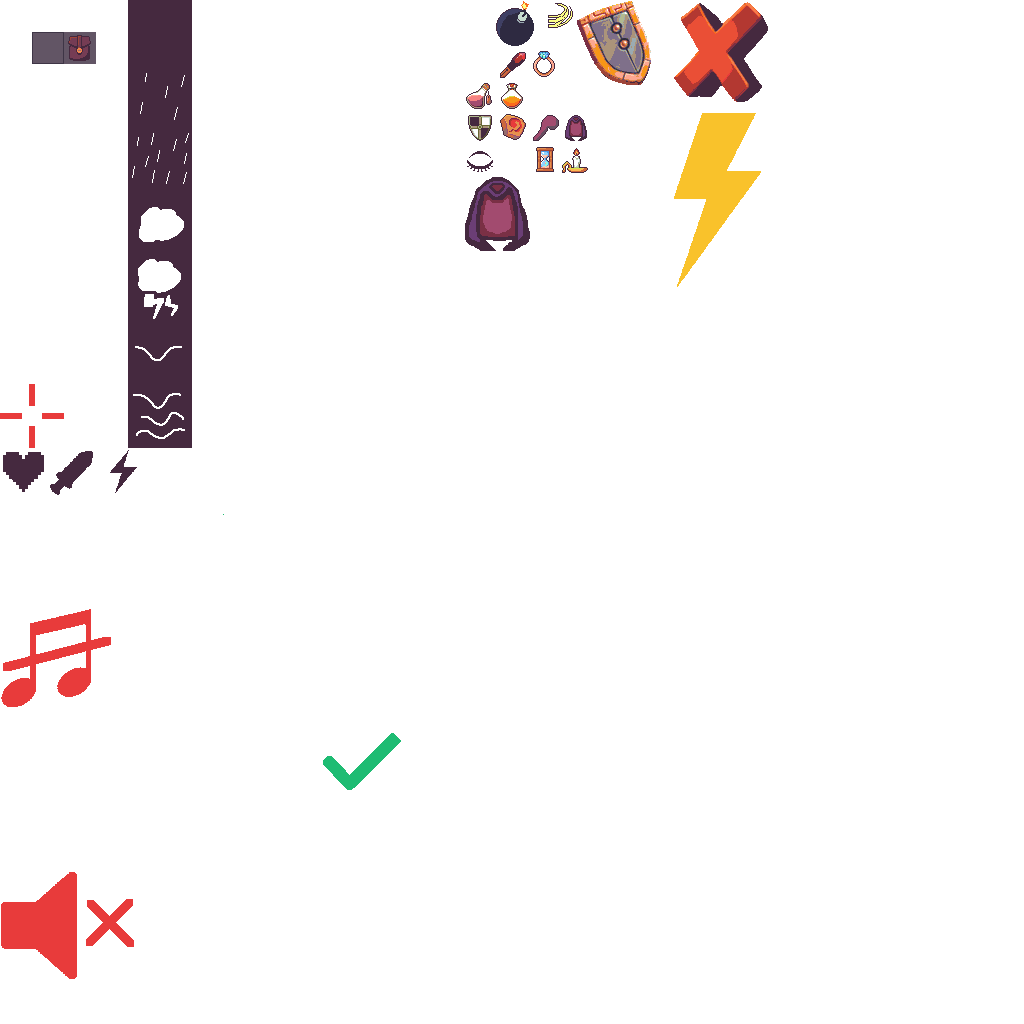
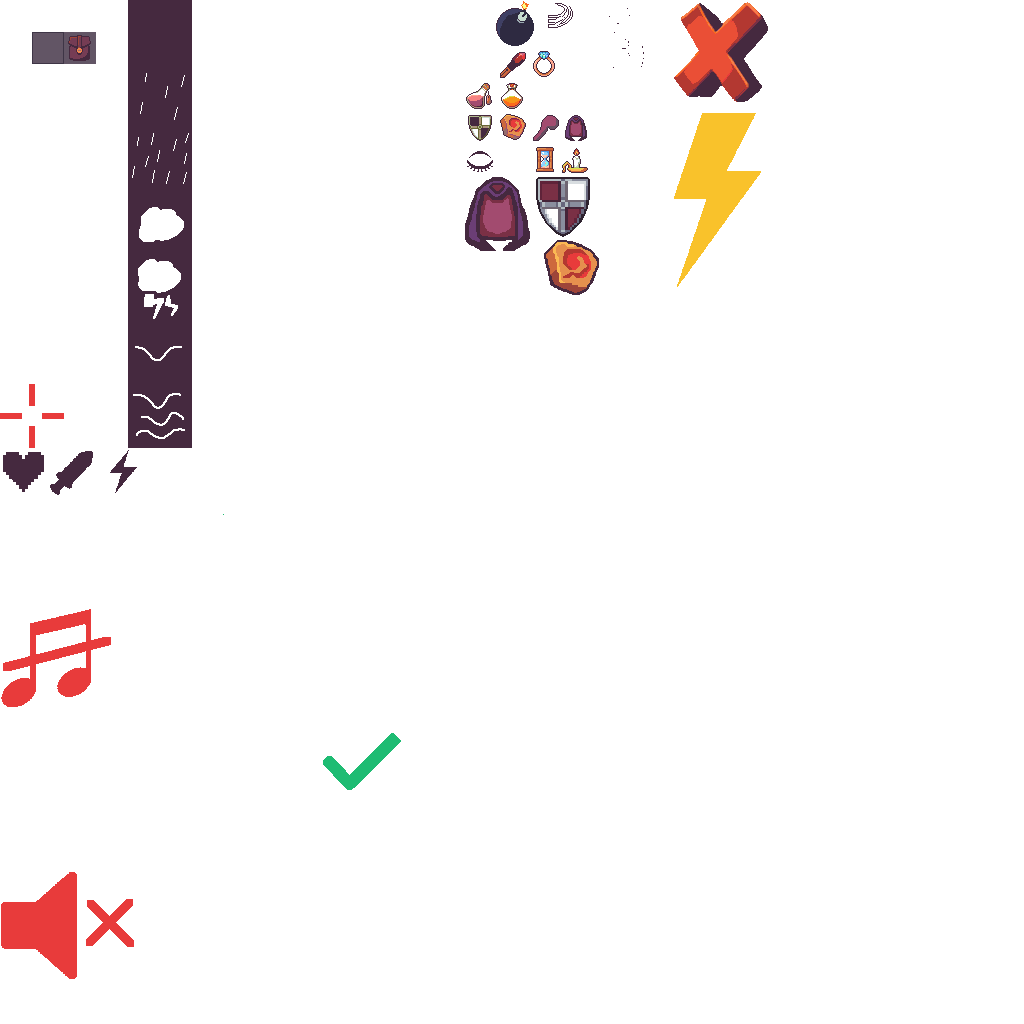
0.8.090

Changed region(s): [[0.5, 0.1562, 0.5938, 0.2812], [0.5312, 0.0, 0.6562, 0.0938]]

diff --git a/gamestream_flutter/lib/atlases/atlas_icons.dart b/gamestream_flutter/lib/atlases/atlas_icons.dart
@@ -39,9 +39,9 @@ class AtlasIcons {
     IconType.Bag_White: 245,
     IconType.Power_None: 0,
     IconType.Power_Bomb: 495,
-    IconType.Power_Shield: 468,
+    IconType.Power_Shield: 536,
     IconType.Power_Invisible: 465,
-    IconType.Power_Teleport: 503,
+    IconType.Power_Teleport: 544,
     IconType.Power_Revive: 466,
     IconType.Power_Stun: 674,
     IconType.Music_Enabled: 1,
@@ -89,9 +89,9 @@ class AtlasIcons {
     IconType.Bag_White: 179,
     IconType.Power_None: 0,
     IconType.Power_Bomb: 1,
-    IconType.Power_Shield: 115,
+    IconType.Power_Shield: 177,
     IconType.Power_Invisible: 177,
-    IconType.Power_Teleport: 115,
+    IconType.Power_Teleport: 240,
     IconType.Power_Revive: 84,
     IconType.Power_Stun: 113,
     IconType.Music_Enabled: 499,
@@ -117,14 +117,15 @@ class AtlasIcons {
     IconType.Energy: 75,
     IconType.Power_None: 0,
     IconType.Power_Bomb: 38,
-    IconType.Power_Shield: 24,
+    IconType.Power_Shield: 54,
     IconType.Power_Invisible: 65,
-    IconType.Power_Teleport: 18,
+    IconType.Power_Teleport: 55,
     IconType.Power_Revive: 26,
     IconType.Power_Stun: 87,
     IconType.Music_Enabled: 90,
     IconType.Music_Disabled: 90,
   }[itemType] ?? getSrcSize(itemType);
+
 
   static double getSrcHeight(int itemType) => const  <int, double> {
     IconType.Checkbox_True: 112,
@@ -145,9 +146,9 @@ class AtlasIcons {
     IconType.Energy: 157,
     IconType.Power_None: 0,
     IconType.Power_Bomb: 45,
-    IconType.Power_Shield: 25,
+    IconType.Power_Shield: 60,
     IconType.Power_Invisible: 74,
-    IconType.Power_Teleport: 25,
+    IconType.Power_Teleport: 55,
     IconType.Power_Revive: 26,
     IconType.Power_Stun: 174,
     IconType.Music_Enabled: 98,

diff --git a/bleed-server/lib/src/games/game_combat.dart b/bleed-server/lib/src/games/game_combat.dart
@@ -500,9 +500,8 @@ class GameCombat extends Game {
   }
 
   void playerUsePower(Player player){
-    if (player.powerCooldown > 0) {
-      return;
-    }
+    if (player.powerCooldown > 0) return;
+    if (player.deadBusyOrWeaponStateBusy) return;
     player.powerCooldown = getPlayerPowerTypeCooldownTotal(player);
     player.writePlayerPower();
     player.writePlayerEvent(PlayerEvent.Power_Used);

diff --git a/bleed-common/lib/src/version.dart b/bleed-common/lib/src/version.dart
@@ -1,4 +1,4 @@
-const version = '0.8.089';
+const version = '0.8.091';
 
 
 

diff --git a/bleed-server/lib/common/src/version.dart b/bleed-server/lib/common/src/version.dart
@@ -1,4 +1,4 @@
-const version = '0.8.089';
+const version = '0.8.091';
 
 
 

diff --git a/gamestream_flutter/README.md b/gamestream_flutter/README.md
@@ -43,7 +43,11 @@ ctrl + shift + e    : view recent changes
 [ ] youtube video 45 seconds
 [ ] graphic settings enable paint anti alias
 [ ] graphic settings modify paint filter quality
-[ ] fix weapon icons
+
+24.03.2023
+[x] fix power icon resolution
+[x] fix use power while busy
+[x] track-02
 
 23.03.2023
 [x] window main menu
